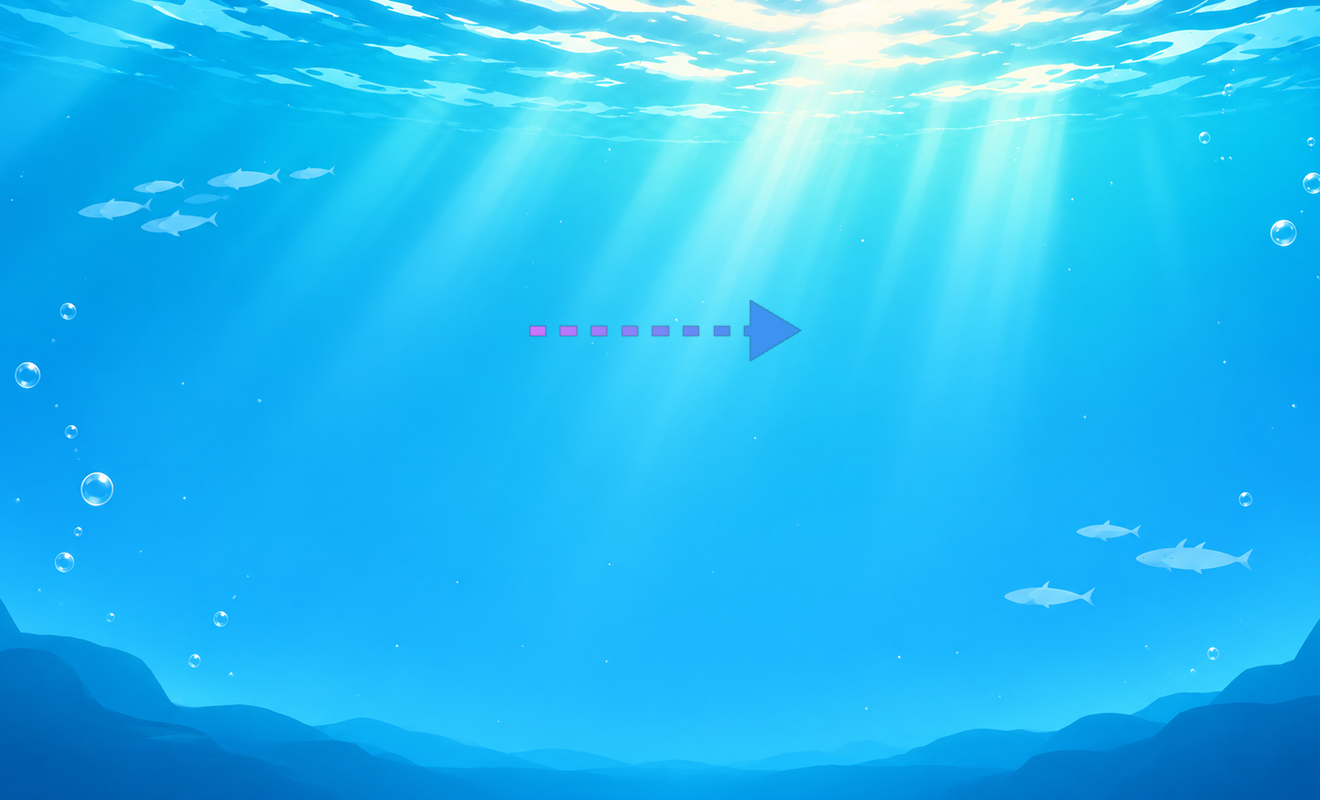
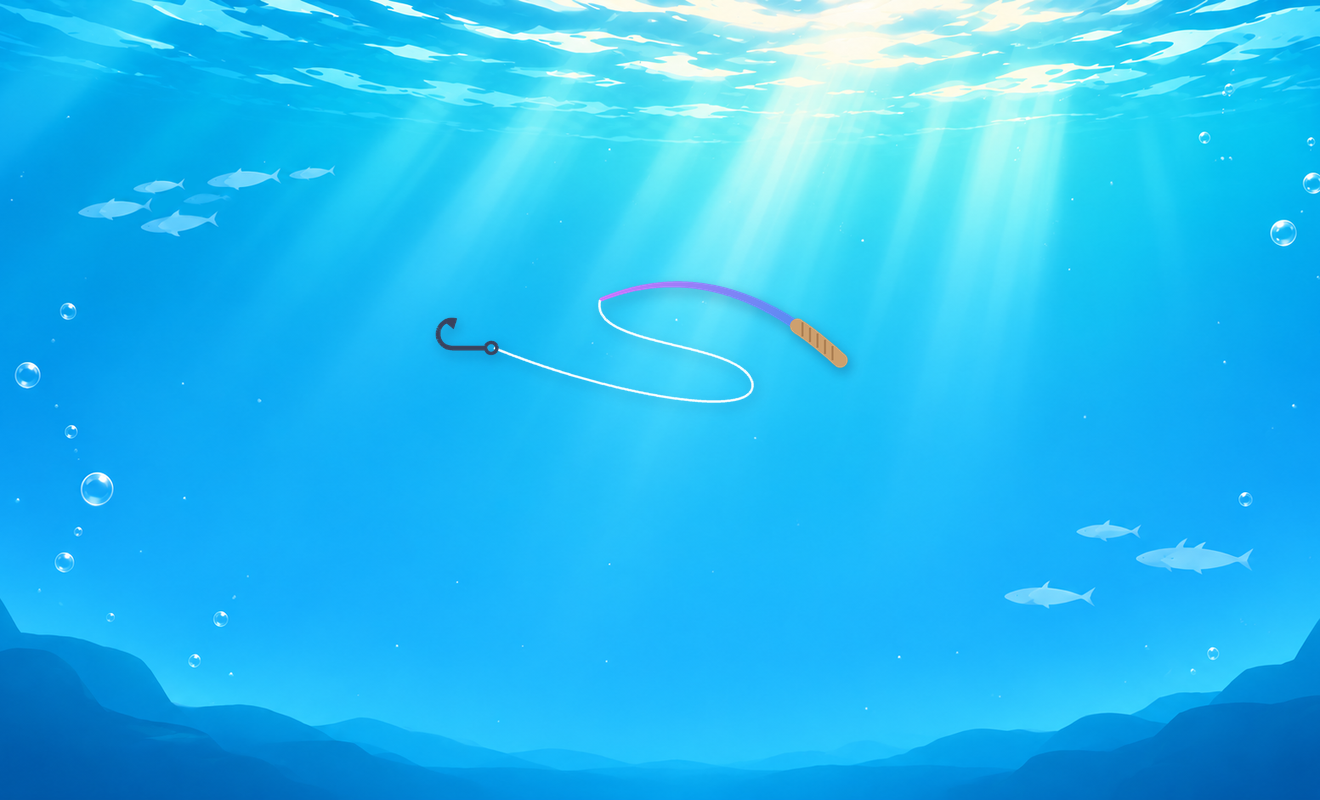
feat(macos): DMG 화살표 자리에 낚싯대를 그리기
사바쨩(고등어)과 설치기의 낚시 그림에 맞춰, 앱과 응용 프로그램 사이 화살표를
낚싯대로 바꾼다. 코르크 손잡이는 폴더 쪽, 대는 시그니처 그라데이션이고, 줄이
폴더 쪽으로 한 바퀴 돌아 바늘이 사바쨩을 향한다. 위치·높이는 그대로다.

Claude-Session: https://claude.ai/code/session_014P4W8oenruHd6nSWSa6bEY

diff --git a/.github/scripts/package-macos.py b/.github/scripts/package-macos.py
@@ -27,7 +27,7 @@ PLIST_TEMPLATE = ROOT / "saba-chan-gui/src-tauri/macos/Info.plist"
 ICON_SOURCE = ROOT / "saba-chan-gui/src-tauri/icons/AppIcon.icon"
 ICON_FILE = "saba-chan.icns"
 ASSETS_FILE = "Assets.car"
-# .dmg Finder 창 (pt): 배경의 화살표를 따라 왼쪽 앱을 오른쪽 응용 프로그램 폴더로 끌어 넣는다.
+# .dmg Finder 창 (pt): 배경의 낚싯줄을 따라 왼쪽 앱을 오른쪽 응용 프로그램 폴더로 끌어 넣는다.
 # 배경은 660×400 그림과 레티나용 @2x 한 쌍이다
 DMG_BACKGROUND = ROOT / "saba-chan-gui/src-tauri/macos/dmg-background.png"
 DMG_WINDOW = (660, 400)
@@ -104,7 +104,7 @@ def dmg_settings(app: Path) -> dict:
         "icon_size": DMG_ICON_SIZE,
         "text_size": 12,
         # 창 높이(400)에서 제목 막대를 빼고, 사용자가 Finder 경로 막대를 켜 두면 그것까지 가려 그림은 위쪽
-        # 340~370pt만 보인다. 아이콘과 이름 묶음이 두 경우 모두 보이는 칸 가운데쯤 오는 높이다 (배경 화살표도 같은 높이)
+        # 340~370pt만 보인다. 아이콘과 이름 묶음이 두 경우 모두 보이는 칸 가운데쯤 오는 높이다 (배경의 낚싯대도 같은 높이)
         "icon_locations": {app.name: (150, 165), "Applications": (510, 165)},
     }
 

diff --git a/.github/scripts/test_package_macos.py b/.github/scripts/test_package_macos.py
@@ -50,7 +50,7 @@ class MacApp(unittest.TestCase):
         self.assertEqual(conf["identifier"], plist["CFBundleIdentifier"])
 
     def test_dmg_window_puts_the_app_left_of_applications_on_the_background(self):
-        # Finder 창: 배경 화살표를 따라 왼쪽 앱 → 오른쪽 응용 프로그램. 둘 말고는 두지 않는다 (창 밖으로 나가면 스크롤이 생긴다)
+        # Finder 창: 배경 낚싯줄을 따라 왼쪽 앱 → 오른쪽 응용 프로그램. 둘 말고는 두지 않는다 (창 밖으로 나가면 스크롤이 생긴다)
         app = Path("/tmp/Saba-chan.app")
         settings = package_macos.dmg_settings(app)
         locations = settings["icon_locations"]

diff --git a/docs/architecture/05-updater-servers.md b/docs/architecture/05-updater-servers.md
@@ -632,7 +632,7 @@ Tauri 커맨드(`installer/gui/src-tauri/src/lib.rs`): `get_installer_state`, `s
 | U7 | ~~설정이 저장되지 않는다, GUI가 POST를 쓴다~~ → 해결: `config.json` `updates` 절, GUI도 PUT | `updates.rs:844-942`, `saba-chan-gui/src/api/createApi.ts:981-982` |
 | U8 | ~~CLI의 `/api/install/*`은 daemon에 없다~~(호출이 지워졌다). ~~CLI apply·download는 여전히 body 없는 POST다~~ → 해결: PR #6 CLI는 본문을 보내고, 데몬도 본문 없는 apply·download를 전체 대상으로 받는다 | `saba-chan-cli/src/client.rs:774-784`, `src/ipc/updates.rs:348-371` |
 | U9 | ~~CLI `launch-apply`가 넘기는 `--install-root`와 대상 인자를 updater가 무시한다~~ → 해결: PR #6 CLI `update apply`는 daemon의 `launch-updater`만 부른다 | `saba-chan-cli/src/cmd/update.rs:237-249` |
-| U10 | ~~CI가 windows-x64 릴리즈만 만든다~~ → linux-x64(헤드리스, 0.1.12부터 GUI도)와 linux-arm64(헤드리스 0.1.12, GUI는 0.1.12 두 번째 베타부터)는 `publish.yml`이 빌드해 manifest `platforms`에 싣는다(D3c). macOS(`macos-arm64`)는 CI(`ci.yml` `macos-package`)가 구성요소 zip·`Saba-chan.app`(실행 파일과 데몬 zip의 공유 모듈 파일)·서명 없는 .dmg(앱 묶음과 응용 프로그램 폴더 바로가기. `dmgbuild`로 Finder 창을 꾸민다: 660×400 창, 화살표 배경 `saba-chan-gui/src-tauri/macos/dmg-background.png`(+@2x), 디스크 아이콘)를 만들고 모의 릴레이로 CLI 설치·업데이트·제거를 시험하지만, `publish.yml`에는 아직 없다(설치·업데이트를 맥 실기로 확인한 뒤 싣는다). windows-arm64는 아직 없다. 플랫폼 이름(`<os>-<arch>`, `relay::current_platform`)과 manifest `platforms`는 이미 범용이라, 새 플랫폼은 다음을 더하면 된다: `publish.yml` 빌드 작업과 `--also-platform`, 창 앱을 싣으면 CLI `APP_PLATFORMS`, 포터블 파이썬 고정(`python_pin.rs`. `aarch64-pc-windows-msvc`는 지금 고정 판 20250106에 없어 판을 올려야 한다), 이름에 `{platform}`이 없는 asset(`installer`)의 `platforms`. Windows ARM은 설치기 exe와 `package-windows.py`(`PLATFORM`)가 windows-x64 전용이라 그 둘도 플랫폼별로 나눠야 한다 | `package-windows.py`, `publish.yml` |
+| U10 | ~~CI가 windows-x64 릴리즈만 만든다~~ → linux-x64(헤드리스, 0.1.12부터 GUI도)와 linux-arm64(헤드리스 0.1.12, GUI는 0.1.12 두 번째 베타부터)는 `publish.yml`이 빌드해 manifest `platforms`에 싣는다(D3c). macOS(`macos-arm64`)는 CI(`ci.yml` `macos-package`)가 구성요소 zip·`Saba-chan.app`(실행 파일과 데몬 zip의 공유 모듈 파일)·서명 없는 .dmg(앱 묶음과 응용 프로그램 폴더 바로가기. `dmgbuild`로 Finder 창을 꾸민다: 660×400 창, 낚싯대를 그린 바닷속 배경 `saba-chan-gui/src-tauri/macos/dmg-background.png`(+@2x), 디스크 아이콘)를 만들고 모의 릴레이로 CLI 설치·업데이트·제거를 시험하지만, `publish.yml`에는 아직 없다(설치·업데이트를 맥 실기로 확인한 뒤 싣는다). windows-arm64는 아직 없다. 플랫폼 이름(`<os>-<arch>`, `relay::current_platform`)과 manifest `platforms`는 이미 범용이라, 새 플랫폼은 다음을 더하면 된다: `publish.yml` 빌드 작업과 `--also-platform`, 창 앱을 싣으면 CLI `APP_PLATFORMS`, 포터블 파이썬 고정(`python_pin.rs`. `aarch64-pc-windows-msvc`는 지금 고정 판 20250106에 없어 판을 올려야 한다), 이름에 `{platform}`이 없는 asset(`installer`)의 `platforms`. Windows ARM은 설치기 exe와 `package-windows.py`(`PLATFORM`)가 windows-x64 전용이라 그 둘도 플랫폼별로 나눠야 한다 | `package-windows.py`, `publish.yml` |
 | U11 | ~~`generate-manifest.py`, `release-manifest.json` 템플릿~~ 지워졌다 | `.github/` |
 | U12 | ~~모듈과 익스텐션 소스가 4갈래로 갈린다~~ 해결됨: 모두 같은 릴리즈 manifest | §1.4 |
 | U13 | `Program Files` 기본 설치에 권한 상승 없이 업데이트를 적용한다 | installer `lib.rs:797-801` |
